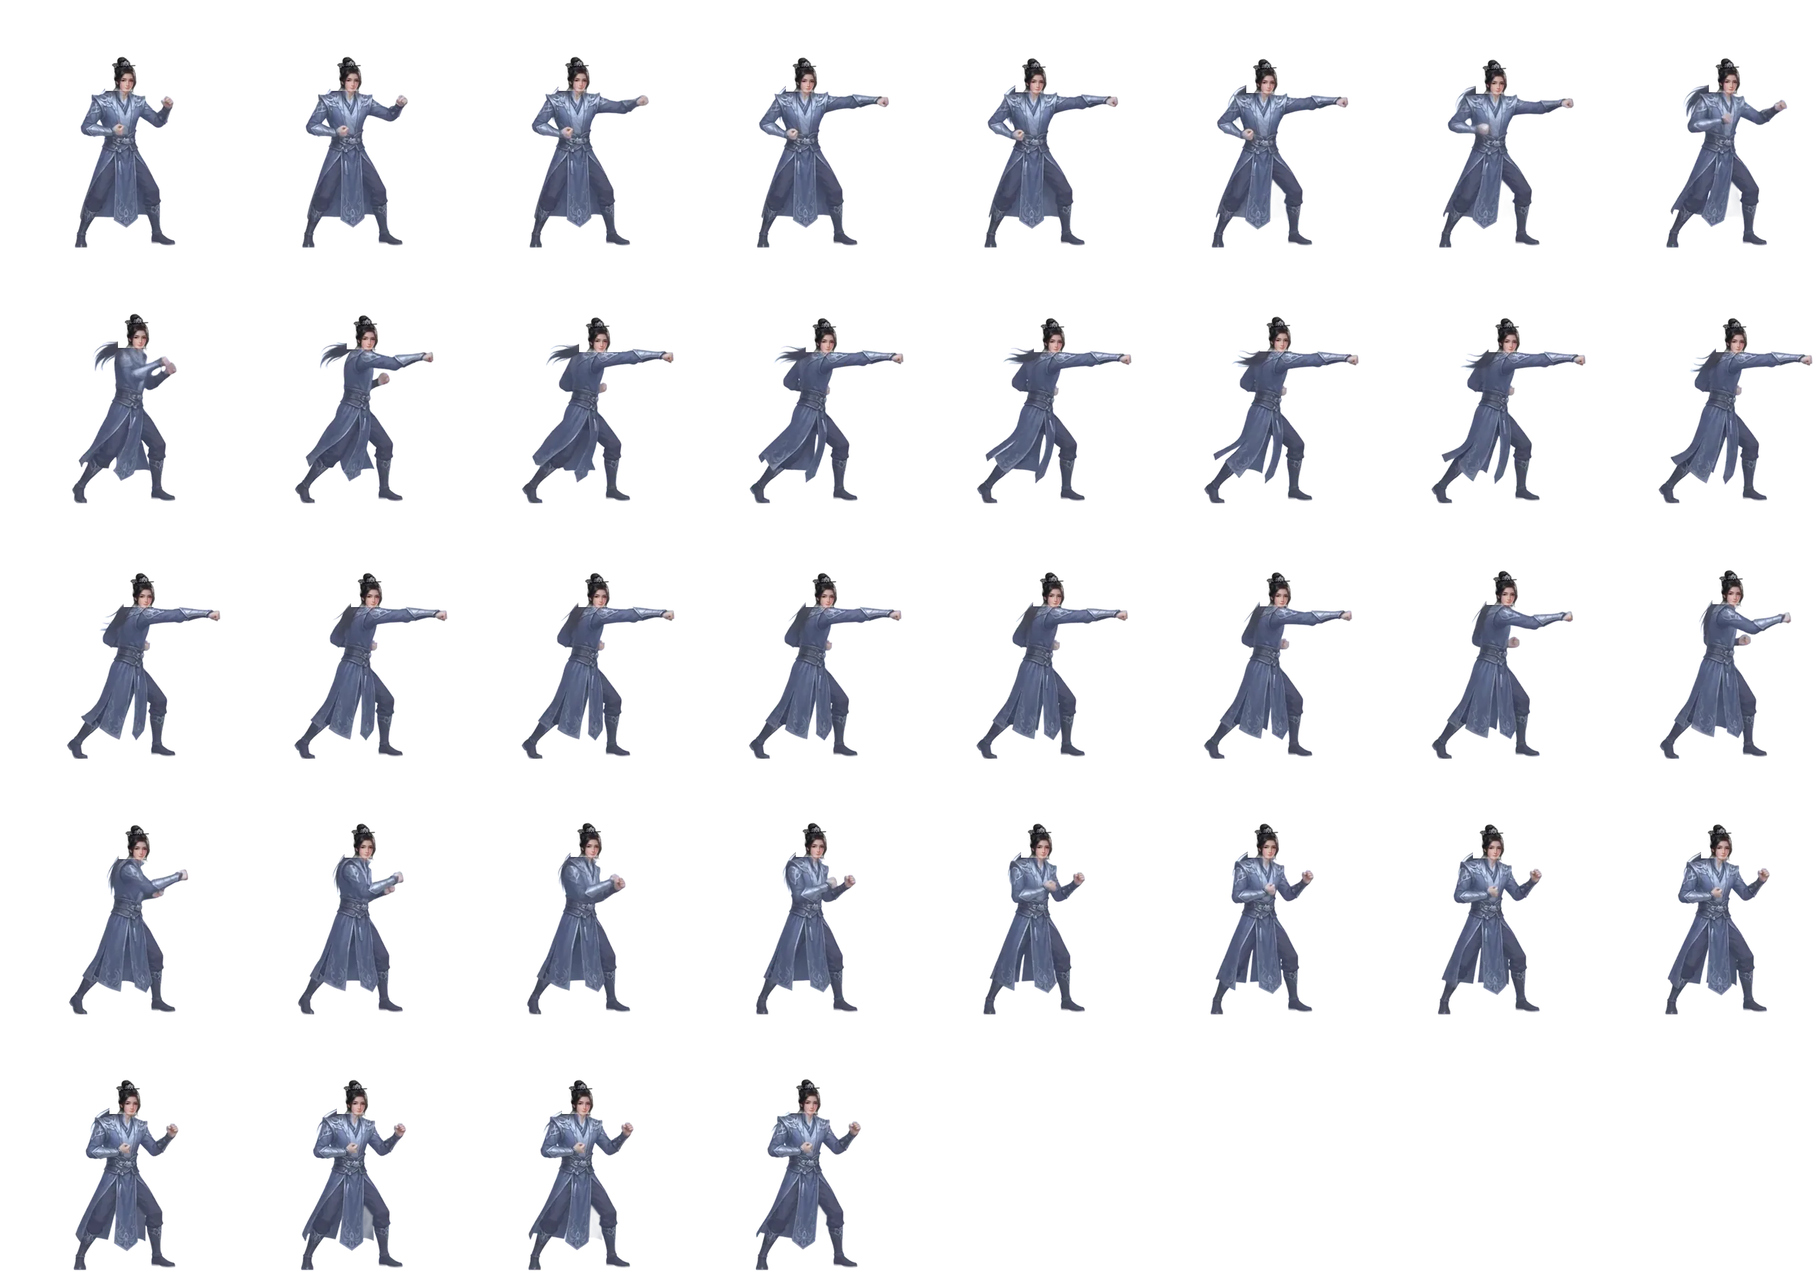
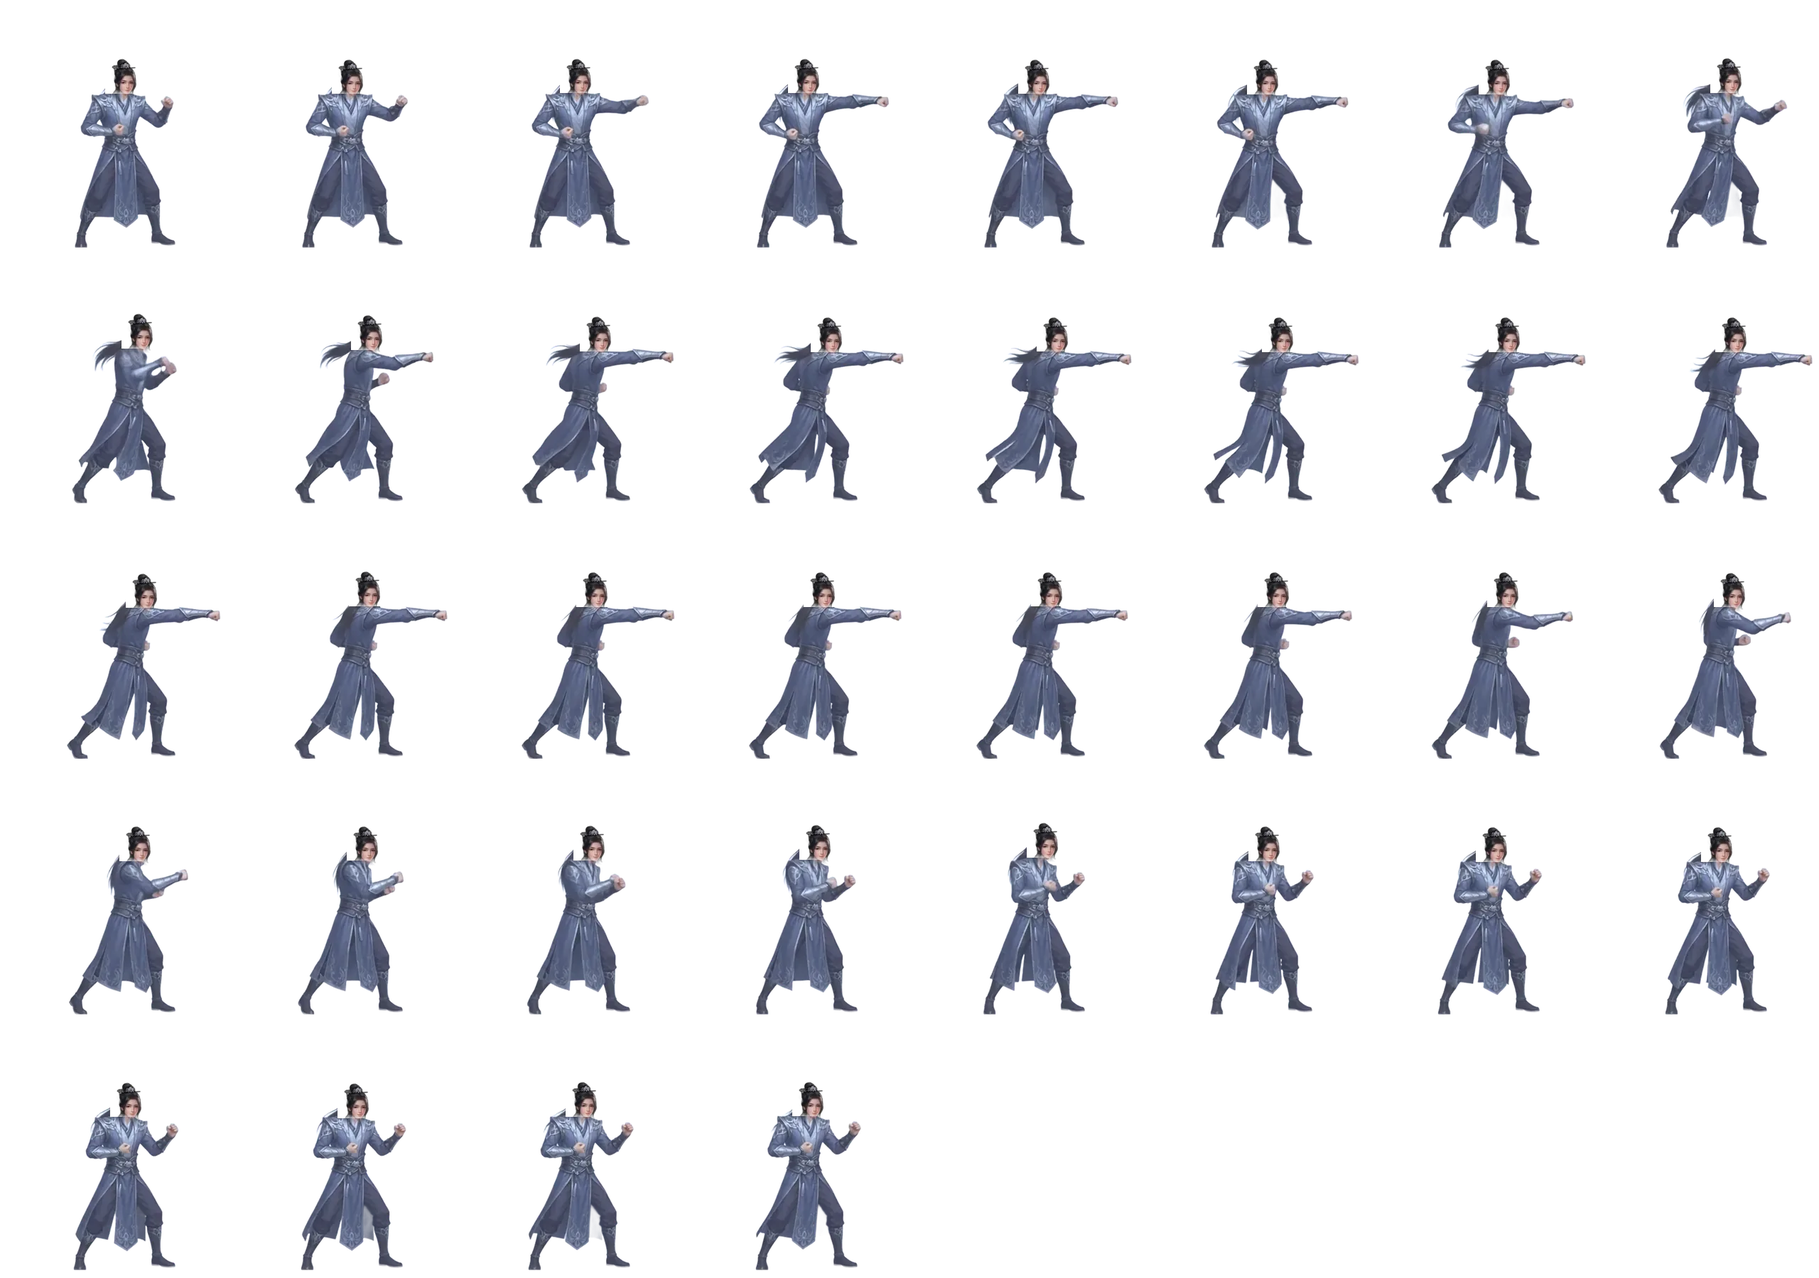
Finger techniques: one finger jab for both genders and their beams
The two Finger techniques share the finger jab from SHOAIB's video
(hero_male_finger.webp, scripts/make_hero_finger.py; a broken frame with the
arm torn off is replaced by its neighbour). The female cultivator plays it frame
for frame (scripts/make_heroine_moves.py, which now finds his face before his
colours change, so her punch and palm sheets are rebuilt too).

Each beam's tail is pinned to the fingertip (per look, `hand`) and stretched,
angled, to the beast: Viper Fang Finger strikes out an emerald viper;
River-Splitting Finger shoots a blue beam, then opens two walls of water.
Designs cleaned by scripts/make_finger_fx.py.

Technique data, damage, Battle Qi and cooldowns are unchanged.

Claude-Session: https://claude.ai/code/session_018PQaDJELw5twVwQ56j5tKf

diff --git a/web/static/fight.js b/web/static/fight.js
@@ -551,7 +551,7 @@
       var punches = dragons ? [{at: 360, kind: 'jab'}, {at: 640, kind: 'lunge'}, {at: 960, kind: 'jab'}, {at: 1240, kind: 'lunge'}]
                             : [{at: Math.round(end * 0.45), kind: 'lunge'}];
       var R = punches[punches.length - 1].at;                       // the last release
-      var LAND = dragons ? R + 420 : X.play === 'vortex' ? R + 180 : X.play === 'streak' ? R + 100 : X.play === 'charge' ? R + 40 : R;   // when the blow lands on the beast
+      var LAND = dragons ? R + 420 : X.play === 'vortex' ? R + 180 : X.play === 'streak' ? R + 100 : X.play === 'beam' ? R + 160 : X.play === 'charge' ? R + 40 : R;   // when the blow lands on the beast
       var settle = [[Math.max(R + 280, end * 0.7), BACK - 1], [end * 0.95, (mn || 36) - 1]];   // held out, then back on guard
       var keys = dragons                                              // [ms, frame]: jab, lunge, (pulled back) jab, lunge
         ? [[0, 0], [300, JAB - 1], [360, JAB], [440, 7], [560, 9], [640, OUT], [740, OUT + 2], [820, BACK + 3], [821, 2],
@@ -655,6 +655,26 @@
           }
         },
         dragons: function () {},                                     // Nine Dragons: see `loose` below
+        beam: function (h) {                                         // Viper Fang / River-Splitting: a beam from the fingertip
+          if (h >= 0 && once('beam')) {                              // tail pinned to the fingertip, head on the beast
+            var from = fist('lunge'), to = at(br, 0.5, 0.42), d = px(from, to);   // finger to beast
+            var len = Math.hypot(d[0], d[1]), ang = Math.atan2(d[1], d[0]) * 180 / Math.PI;
+            var n = document.createElement('img');
+            n.className = 'tart tglow tbeam' + (X.part ? ' twater' : ''); n.src = X.art[0]; n.alt = '';
+            n.style.left = from[0] + '%'; n.style.top = from[1] + '%'; n.style.width = len / W * 100 + '%';
+            n.style.setProperty('--tc', tc);
+            scene.appendChild(n); made.push(n);
+            setTimeout(function () { n.remove(); }, 1300);
+            var B = function (sx, sy) { return 'translate(0,-50%) rotate(' + ang + 'deg) scale(' + sx + ',' + sy + ')'; };
+            n.animate(X.part                                        // River: the beam shoots out, then the two walls of water open
+              ? [{transform: B(0, 0.25), opacity: 1}, {transform: B(1, 0.3), opacity: 1, offset: 0.13},
+                 {transform: B(1, 1.08), opacity: 1, offset: 0.35}, {transform: B(1.02, 1), opacity: 1, offset: 0.75}, {transform: B(1.04, 1.06), opacity: 0}]
+              : [{transform: B(0, 1), opacity: 1}, {transform: B(1, 1), opacity: 1, offset: 0.14},       // Viper: the head strikes out
+                 {transform: B(1.03, 1.05), opacity: 1, offset: 0.7}, {transform: B(1.05, 1.08), opacity: 0}],
+              {duration: 1250, easing: 'ease-out', fill: 'forwards'});
+          }
+          if (h >= 160 && once('land')) lands();
+        },
         sweep: function (h) {                                        // Crescent Sweep: a pale crescent swept across it
           if (h >= -60 && once('arc')) {
             var n = pic(X.art[0], 'tglow tarc', at(br, 0.36, 0.44), 30, 900);

diff --git a/web/static/style.css b/web/static/style.css
@@ -819,6 +819,8 @@ main.battle.roused:not(.playing) .beast img{animation:roused 1.4s ease-in-out in
 .tpierce{position:absolute;z-index:5;width:30%;height:5px;border-radius:3px;pointer-events:none;transform:translateY(-50%);transform-origin:left;
   background:linear-gradient(90deg,#fff,var(--tc) 40%,transparent);box-shadow:0 0 14px var(--tc);animation:tpierce .7s ease-out forwards}
 @keyframes tpierce{0%{opacity:0;transform:translateY(-50%) scaleX(0)}25%{opacity:1;transform:translateY(-50%) scaleX(1)}100%{opacity:0;transform:translateY(-50%) scaleX(1.15)}}
+.tart.tbeam{transform-origin:0 50%;filter:drop-shadow(0 0 10px var(--tc)) brightness(1.15)}   /* finger beams: from the fingertip */
+.tart.tbeam.twater{filter:drop-shadow(0 0 12px #3FC8FF) brightness(1.1)}
 .tart.tarc{filter:drop-shadow(0 0 12px rgba(220,240,255,.8)) brightness(1.15)}       /* Crescent Sweep: pale moonlight */
 .tart.tbird{filter:drop-shadow(0 0 14px #FFD978) drop-shadow(0 0 4px #FFF2C8) sepia(.4) brightness(1.3)}        /* Swift Swallow: golden wind */
 .tart.tleaf{filter:drop-shadow(0 0 8px rgba(255,170,60,.7))}

diff --git a/scripts/make_hero_finger.py b/scripts/make_hero_finger.py
@@ -1,0 +1,73 @@
+"""Build the male cultivator's finger jab, played by every Finger technique, from SHOAIB's finger-jab video
+(web/static/fight.js `technique`, docs/web.md "Techniques"). Made like the punch (scripts/make_hero_fist.py).
+
+The video (Gemini, 1280 x 720, 24 fps) is a 4 x 2 grid of 320 x 360 cells on white. The top-right cell
+(x 960-1280, y 0-360) plays one clean jab: on guard at 2.5 s, a lunge with two fingers thrust forward (out at
+about 4.2 s), held, and back on guard by 8.5 s. Bare-handed in black robes, so his colours are matched to his sword
+frames. The female cultivator's frames are made from these (scripts/make_heroine_moves.py).
+
+    python -m scripts.make_hero_finger path/to/finger.mp4
+
+Writes art/portraits/fight/hero_male_finger.webp: 48 frames of 320 x 360 in an 8-wide grid, and prints the frame
+where the fingertip is furthest out (the release, where the beam leaves), for looks.MOTION_SHEETS.
+Needs ffmpeg, numpy, Pillow and rembg, as make_hero_attack does.
+"""
+import os
+import sys
+import tempfile
+
+import numpy as np
+from PIL import Image
+
+from scripts.make_hero_attack import COLS, OUT, cut, frames, grid, match_colours
+
+CELL = (320, 360, 960, 0)          # w, h, x, y of the jabbing cell in the video
+START, LENGTH = 2.5, 6.0           # on guard, the jab, back on guard
+STEP = 3                           # every 3rd video frame: 48 frames over 6 s
+BROKEN = {8: 7}                    # frame 8 has the arm torn off by the video: shown as frame 7
+
+
+def bbox(im):
+    return im.getchannel("A").point(lambda v: 255 if v > 128 else 0).getbbox()
+
+
+def place(images, ref, room=8):
+    """Scale the strike so he stands as tall as the sword cultivator, feet on the same line, body over the same spot;
+    then, if his furthest fingertip would run past the cell's right edge, move him left by just enough (`shift`, in cell
+    pixels; the fight moves the frames right by as much, so he still stands on the same spot)."""
+    rx0, ry0, rx1, ry1 = bbox(ref)
+    px0, py0, px1, py1 = bbox(images[0])
+    s = (ry1 - ry0) / (py1 - py0)
+    dx = (rx0 + rx1) / 2 - (px0 + px1) / 2 * s
+    dy = ry1 - py1 * s
+    reach = max(bbox(im)[2] for im in images) * s + dx
+    shift = min(0, ref.width - room - reach)
+    dx += shift
+    out = []
+    for im in images:
+        big = im.resize((round(im.width * s), round(im.height * s)), Image.LANCZOS)
+        cell = Image.new("RGBA", ref.size, (0, 0, 0, 0))
+        x, y = round(dx), round(dy)
+        cell.alpha_composite(big.crop((max(0, -x), max(0, -y), big.width, big.height)), (max(0, x), max(0, y)))
+        out.append(cell)
+    return out, s, round(-shift)
+
+
+def main(video):
+    with tempfile.TemporaryDirectory() as tmp:
+        clip = frames(video, tmp, cell=CELL, start=START, length=LENGTH, numbers=range(1, int(LENGTH * 24) + 1, STEP))
+    sheet = Image.open(os.path.join(OUT, "hero_male_attack.webp")).convert("RGBA")
+    ref = sheet.crop((0, 0, 320, 360))
+    images = match_colours(cut(clip), ref)
+    images, scale, shift = place(images, ref)
+    images = [images[BROKEN.get(i, i)] for i in range(len(images))]
+    reach = [bbox(im)[2] if bbox(im) else 0 for im in images]
+    rows = grid(images, "hero_male_finger.webp")
+    print(f"hero_male_finger.webp: {len(images)} frames, {COLS} x {rows}, scale {scale:.2f}, moved left {shift} px, "
+          f"fingertip furthest out at frame {int(np.argmax(reach))} (reach per frame: {reach})")
+
+
+if __name__ == "__main__":
+    if len(sys.argv) != 2:
+        sys.exit(__doc__)
+    main(sys.argv[1])

diff --git a/web/technique_fx.py b/web/technique_fx.py
@@ -6,7 +6,8 @@ read it. Keyed by the technique's id in technique.TECHNIQUES; a technique missin
     motion   the shared movement (looks.MOTION_SHEETS): "fist" is SHOAIB's punch video, a jab then a lunging punch;
              "palm" his palm video, a lunging two-handed palm push; "kick" a kick, shared by both genders: its
              timing and effects are defined once, and each look plays it with its own frames (looks.MOTION_SHEETS)
-             or, until it has them, with its own three poses and a lunge and hop (fight.js `technique`)
+             or, until it has them, with its own three poses and a lunge and hop (fight.js `technique`);
+             "finger" his finger-jab video, a lunge with two fingers thrust out
     play     how fight.js `technique` plays the pictures (PLAYS)
     art      its pictures in art/fx/tech/ (scripts/make_fist_fx.py), the first being its main one
     punches  how many dragons fly from each punch, one punch after another (Nine Dragons Ascending Fist only)
@@ -15,8 +16,8 @@ read it. Keyed by the technique's id in technique.TECHNIQUES; a technique missin
 import technique as techniques
 
 PLAYS = ("burst", "claw", "charge", "vortex", "rise", "dragons", "prints", "fan", "descend",
-         "sweep", "streak", "whirl", "meteor")
-MOTIONS = ("fist", "palm", "kick")
+         "sweep", "streak", "whirl", "meteor", "beam")
+MOTIONS = ("fist", "palm", "kick", "finger")
 
 TECH_FX = {
     # the punch techniques, from SHOAIB's designs (Gemini)
@@ -37,6 +38,10 @@ TECH_FX = {
     "swift_swallow_kick": {"motion": "kick", "play": "streak", "art": ["swift_swallow_kick"], "mirror": True},
     "autumn_wind_kick": {"motion": "kick", "play": "whirl", "art": ["autumn_wind_kick"]},
     "meteor_falling_kick": {"motion": "kick", "play": "meteor", "art": ["meteor_falling_kick"]},
+    # the finger techniques, from SHOAIB's designs (Gemini, scripts/make_finger_fx.py), both played with the jab:
+    # a beam whose tail stays on the fingertip and whose head reaches the beast
+    "viper_fang_finger": {"motion": "finger", "play": "beam", "art": ["viper_fang_finger"]},
+    "river_splitting_finger": {"motion": "finger", "play": "beam", "art": ["river_splitting_finger"], "part": True},
 }
 
 # how long a cast lasts on screen, by grade (ms): higher grades get more time for more spectacle
@@ -55,6 +60,6 @@ def of(name, grade):
     fx = TECH_FX.get(tid)
     if not fx:
         return None
-    return {"motion": fx["motion"], "play": fx["play"], "mirror": bool(fx.get("mirror")),
+    return {"motion": fx["motion"], "play": fx["play"], "mirror": bool(fx.get("mirror")), "part": bool(fx.get("part")),
             "punches": fx.get("punches", [1]), "ms": GRADE_MS.get(grade, 1100),
             "art": [f"/art/fx/tech/{a}.webp" for a in fx["art"]]}

diff --git a/scripts/make_heroine_moves.py b/scripts/make_heroine_moves.py
@@ -1,4 +1,4 @@
-"""Give the female cultivator the punch and the palm push the male plays (looks.MOTION_SHEETS), made from his frames:
+"""Give the female cultivator the punch, the palm push and the finger jab the male plays (looks.MOTION_SHEETS), made from his frames:
 the same movement and timing, so every Fist and Palm technique lines up the same for her (docs/web.md "Techniques").
 
 For each of his frames: his robes take her colours (her idle picture's mean and spread, scripts/make_hero_attack.py
@@ -8,7 +8,7 @@ her face and hair.
 
     python -m scripts.make_heroine_moves
 
-Writes art/portraits/fight/hero_female_{fist,palm}.webp in the same 320 x 360 cells as his, and prints where her
+Writes art/portraits/fight/hero_female_{fist,palm,finger}.webp in the same 320 x 360 cells as his, and prints where her
 hand is at the release, for looks.MOTION_SHEETS.
 """
 import os
@@ -90,12 +90,13 @@ def build(motion, n, her, patch, her_face, hbox, s):
     his = frames(os.path.join(OUT, f"hero_male_{motion}.webp"), n)
     ref_cx = (hbox[0] + hbox[2]) / 2
     mbox = his[0].getchannel("A").point(lambda v: 255 if v > 128 else 0).getbbox()
-    his = match_colours(his, her)
     his = [scaled(im, s, hbox[3], (mbox[0] + mbox[2]) / 2, ref_cx) for im in his]
-    # where the face sits under the top of his head, from the frames where his face shows; then every frame
-    # places her face there, so a turned or shadowed face still gets her head
+    # where the face sits under the top of his head, from the frames where his face shows (before his colours
+    # change, which can hide his skin); then every frame places her face there, so a turned face still gets her head
     seen = [(face_of(im), top_of(im)) for im in his]
-    off = np.median([(f[0] - t[0], f[1] - t[1]) for f, t in seen if f], axis=0)
+    found = [(f[0] - t[0], f[1] - t[1]) for f, t in seen if f]
+    off = np.median(found, axis=0)
+    his = match_colours(his, her)
     out = []
     for im, (f, t) in zip(his, seen):
         fx, fy = f if f else (t[0] + off[0], t[1] + off[1])
@@ -120,7 +121,7 @@ def main():
     male = in_cells(os.path.join(OUT, "hero_male_idle.webp"))
     mbox = male.getchannel("A").point(lambda v: 255 if v > 128 else 0).getbbox()
     s = (hbox[3] - hbox[1]) / (mbox[3] - mbox[1])                    # her height against his
-    for motion, n in (("fist", 36), ("palm", 48)):
+    for motion, n in (("fist", 36), ("palm", 48), ("finger", 48)):
         images, shift = build(motion, n, her, patch, her_face, hbox, s)
         rows = -(-len(images) // COLS)
         sheet = Image.new("RGBA", (CELL[0] * COLS, CELL[1] * rows), (0, 0, 0, 0))

diff --git a/looks.py b/looks.py
@@ -84,7 +84,14 @@ MOTION_SHEETS = {"fist": {"male": {"src": "/art/portraits/fight/hero_male_fist.w
                  "palm": {"male": {"src": "/art/portraits/fight/hero_male_palm.webp", "frames": 48, "cols": 8, "rows": 6,
                                    "jab": 12, "release": 14, "back": 40, "shift": 7 / 320, "hand": [0.66, 0.231]},
                           "female": {"src": "/art/portraits/fight/hero_female_palm.webp", "frames": 48, "cols": 8, "rows": 6,
-                                     "jab": 12, "release": 14, "back": 40, "shift": 33 / 320, "hand": [0.707, 0.416]}}}
+                                     "jab": 12, "release": 14, "back": 40, "shift": 33 / 320, "hand": [0.707, 0.416]}},
+                 # "finger": SHOAIB's finger-jab video (scripts/make_hero_finger.py): on guard (0-4), a first reach
+                 # (`jab`), the lunge with two fingers thrust out (`release`, where the beam leaves the fingertip),
+                 # held, drawing back (`back` on). `hand` is the fingertip.
+                 "finger": {"male": {"src": "/art/portraits/fight/hero_male_finger.webp", "frames": 48, "cols": 8, "rows": 6,
+                                     "jab": 6, "windup": 5, "release": 10, "back": 44, "shift": 21 / 320, "hand": [0.689, 0.315]},
+                            "female": {"src": "/art/portraits/fight/hero_female_finger.webp", "frames": 48, "cols": 8, "rows": 6,
+                                       "jab": 6, "windup": 5, "release": 10, "back": 44, "shift": 44 / 320, "hand": [0.723, 0.428]}}}
 
 
 def fighter(look, pose="idle"):

diff --git a/scripts/make_finger_fx.py b/scripts/make_finger_fx.py
@@ -1,0 +1,27 @@
+"""Turn SHOAIB's Gemini designs for the finger techniques into the effect pictures the fight plays (web/static/fight.js,
+`technique`; docs/web.md "Techniques"), cleaned like the punch designs (scripts/make_fist_fx.py: the painted
+checkerboard and Gemini's sparkle removed). Both are beams pointing right, their tail where the fingertip is.
+
+    python -m scripts.make_finger_fx viper.png river.png
+
+    viper.png    Viper Fang Finger: an emerald beam with a viper's head at its tip (viper_fang_finger)
+    river.png    River-Splitting Finger: a blue beam parting two walls of water (river_splitting_finger)
+
+Writes art/fx/tech/<technique id>.webp.
+"""
+import sys
+
+from PIL import Image
+
+from scripts.make_fist_fx import key_glow, save
+
+
+def main(paths):
+    if len(paths) != 2:
+        sys.exit(__doc__)
+    for tid, path in zip(("viper_fang_finger", "river_splitting_finger"), paths):
+        save(key_glow(Image.open(path)), tid)
+
+
+if __name__ == "__main__":
+    main(sys.argv[1:])

diff --git a/tests/test_technique_fx.py b/tests/test_technique_fx.py
@@ -48,6 +48,14 @@ def test_the_kick_techniques_share_one_kick_for_both_genders():
         assert sheet is None or sheet["src"].endswith(f"hero_{gender}_kick.webp")   # frames, when added, are per look
 
 
+def test_the_finger_techniques_share_the_jab_and_beam_from_the_fingertip():
+    finger = {tid for tid, t in technique.TECHNIQUES.items() if t["school"] == "Finger"}
+    assert finger == {"viper_fang_finger", "river_splitting_finger"}
+    assert all(technique_fx.TECH_FX[t]["motion"] == "finger" and technique_fx.TECH_FX[t]["play"] == "beam" for t in finger)
+    for gender in ("male", "female"):
+        assert looks.motion_sheet({"gender": gender}, "finger")["hand"]           # where the beam leaves
+
+
 def test_a_look_carries_its_grade_length_and_art_urls():
     fx = technique_fx.of("Raging Bull Fist", "Yellow")
     assert fx["ms"] == technique_fx.GRADE_MS["Yellow"] and fx["mirror"]

diff --git a/docs/web.md b/docs/web.md
@@ -243,6 +243,10 @@ a lair is fought with `bot/hunt.py`.
      autumn leaves round it, one pulse per hit; Meteor-Falling Kick, the Heaven one, brings a blazing meteor down
      onto it and leaves the golden crater. Their designs were drawn over a painted scene with the name across the
      top; `scripts/make_kick_fx.py` keys them out of it.
+   - `finger` (`hero_male_finger.webp`, `scripts/make_hero_finger.py`): a lunge with two fingers thrust out. Every
+     Finger technique: its beam's tail stays on the fingertip (`hand`) and stretches to the beast, angled to it.
+     Viper Fang Finger strikes out an emerald viper; River-Splitting Finger shoots a blue beam and then opens two
+     walls of water around it. Designs cleaned by `scripts/make_finger_fx.py`.
    - `palm` (`hero_male_palm.webp`, `scripts/make_hero_palm.py`): both arms drawn back, a lunging two-handed palm
      push, held. Every Palm attack technique. Twin Palm Strike sends one palm print for each of its two hits;
      Rolling Thunder Palm rolls a thunder vortex onto the beast; Thousand Shadow Palm opens a fan of shadow palms
@@ -254,8 +258,8 @@ a lair is fought with `bot/hunt.py`.
    Yellow, Qi rings at the feet from Mystic, a pillar of Qi and a dimmed scene from Earth, a dark Heaven sky. Heavy
    hits leave the golden crater, Stagger the dizzy ring, Pierce a line of light through the beast. The pictures
    are sized by the beast's box, so they keep their proportions on phones. The damage comes from the server (the
-   `tech` event's `dmg`) and the HP bar drops when the blow lands. The female cultivator plays the punch and the palm push frame for frame: his frames in her colours, at her
-   height, with her own head and hair placed on every frame (`hero_female_{fist,palm}.webp`,
+   `tech` event's `dmg`) and the HP bar drops when the blow lands. The female cultivator plays the punch, the palm push and the finger jab frame for frame: his frames in her colours, at her
+   height, with her own head and hair placed on every frame (`hero_female_{fist,palm,finger}.webp`,
    `scripts/make_heroine_moves.py`). A look with no frames for a movement (both, for the kick so far) plays the
    same pictures through its own three poses. The
    action buttons stay locked until the whole cast has played, so extra clicks never cut it short.
